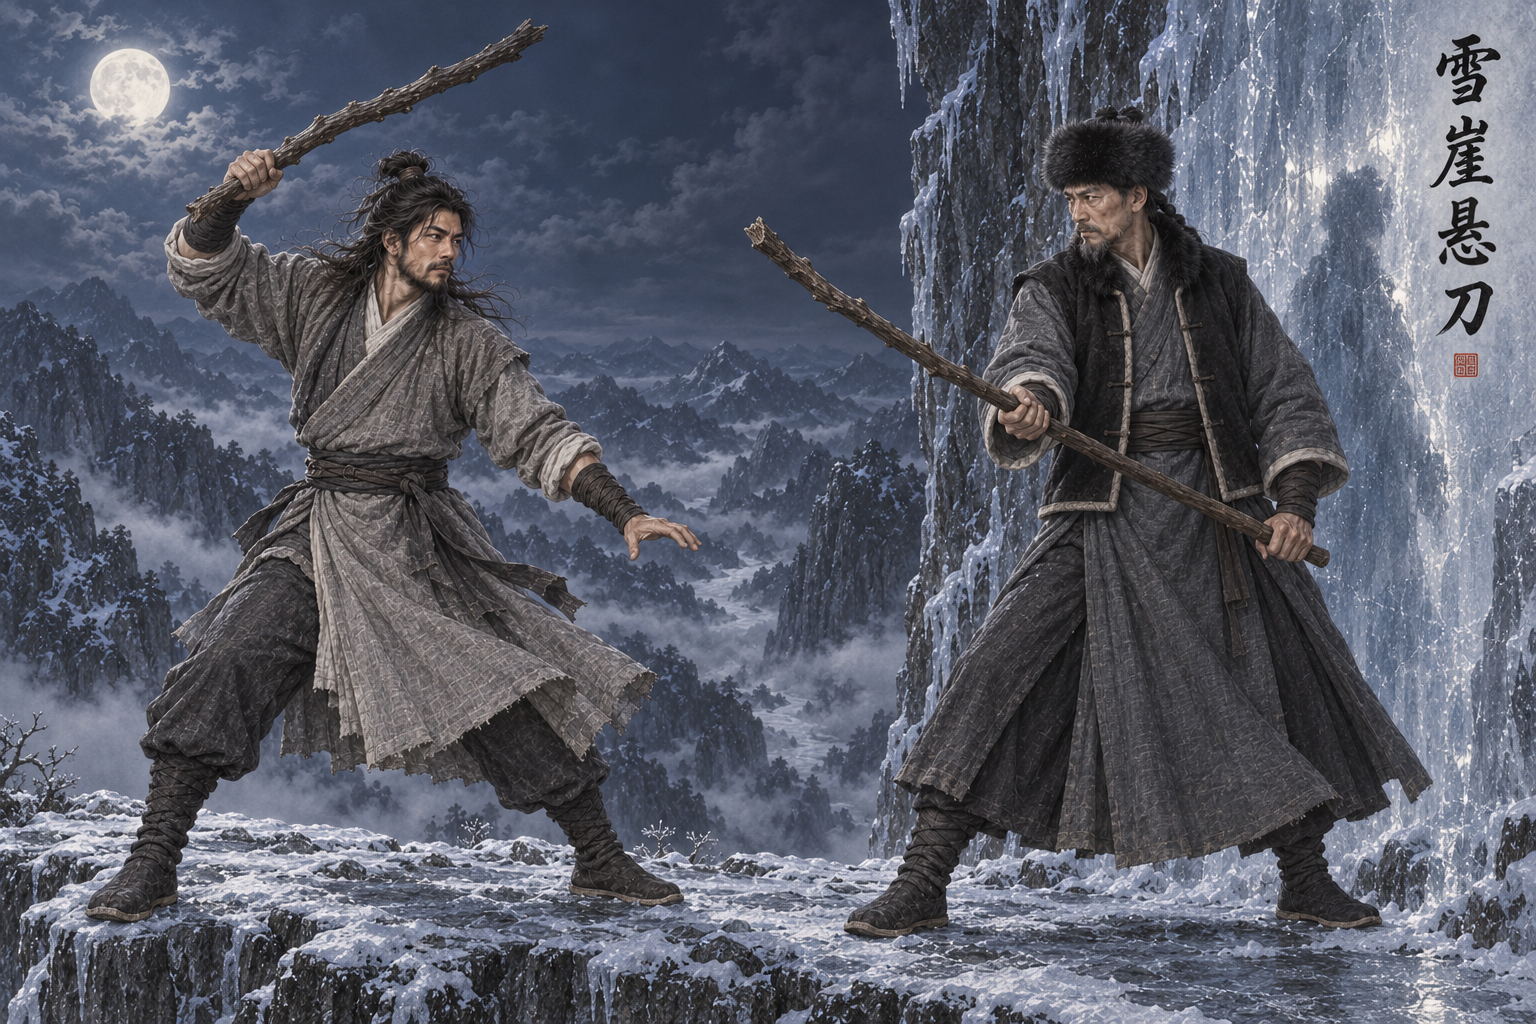
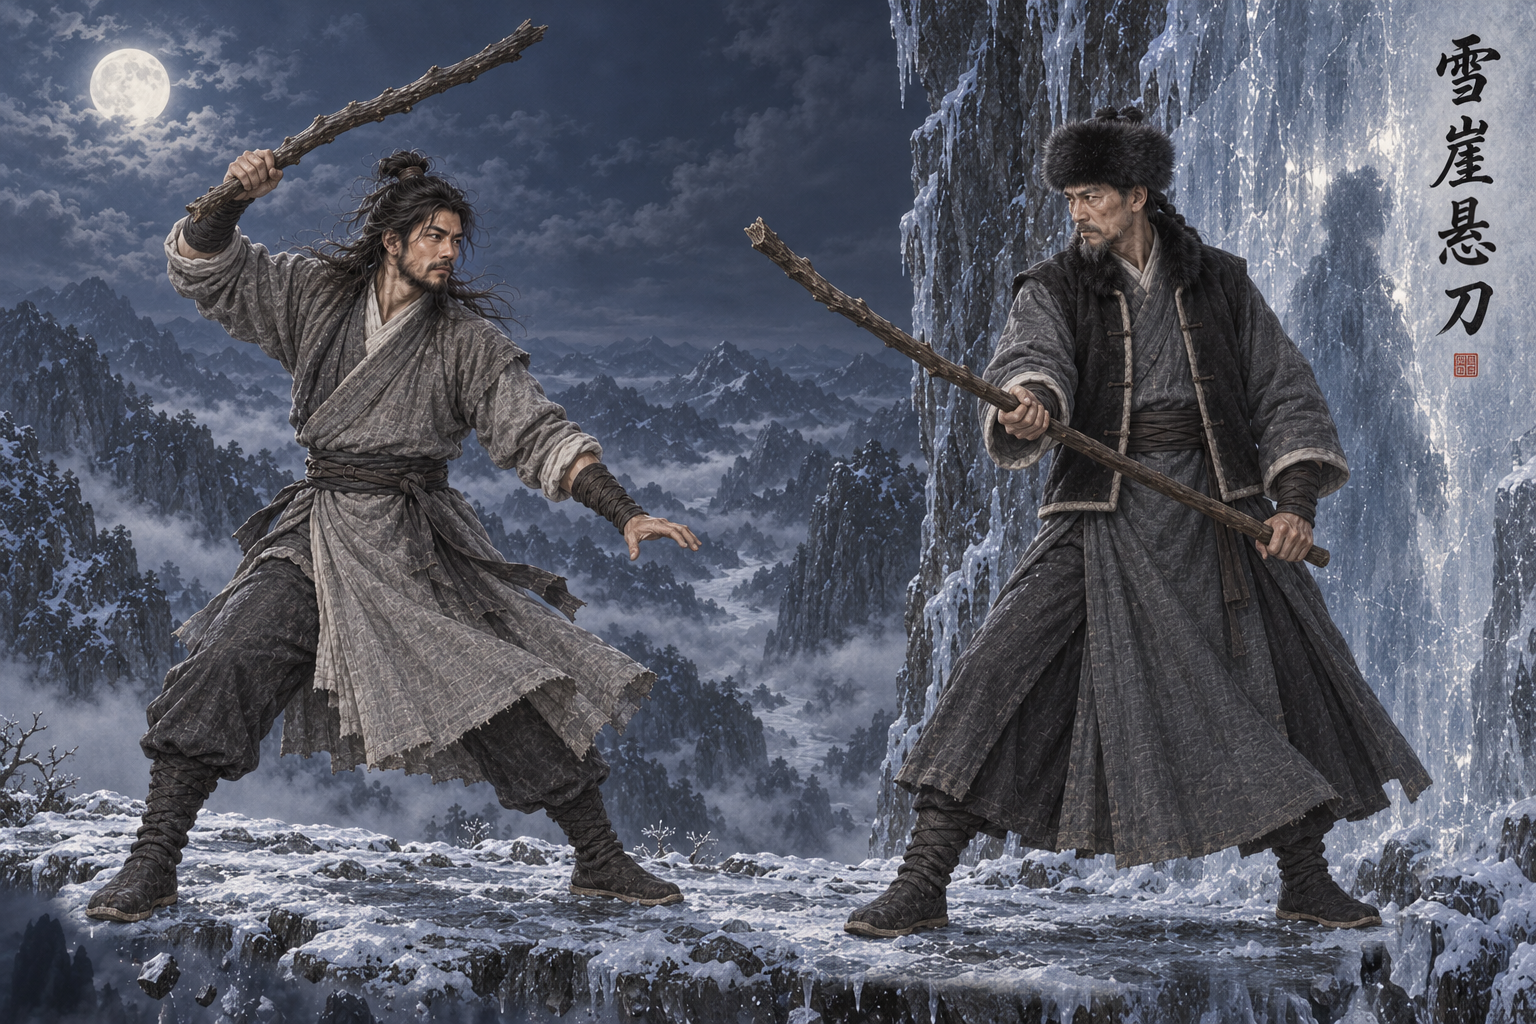
assets: AR-82 原著核对返修 巨岩（胡苗终局）、胡斐墓地夜景
修正原著明确的服饰、器物或剧情状态；编辑范围外像素保持，保留既定面容；同步原著摘句及当前返修要求。

Executed-By: Codex gpt-6.1-sol（AR-82）

Changed region(s): [[0.0, 0.8125, 1.0, 1.0]]

diff --git a/assets/default/prompts/scenes/ch13-feihu/cg_ch13_graveside_farewell.md b/assets/default/prompts/scenes/ch13-feihu/cg_ch13_graveside_farewell.md
@@ -39,6 +39,9 @@ title_rendered_text: 墓畔長風
 ## Gemini 提示词
 
 ```text
+【AR-82 当前原著约束，覆盖后文冲突旧描述】本图是胡斐归刀后将程灵素骨灰放到墓地的同一连续夜景，改为冷月夜色：天空、山林和墓地受冷月蓝灰光照，现日光晴昼完全改为夜色，可在不挪树木地形处留出月光。只改夜景光照和胡斐衣料的月光色，胡斐的头脸、抱坛与跪姿保持，刀已归墓，不重新持刀。画面后方袁紫衣仅在前部头皮补六枚小戒印，其余全身面容保留原像素；原题字墓畔长风的字形像素与红印逐像素保持不变，题字周边采用夜色自然留亮，不留日间矩形天空块；不能重画袁紫衣面孔衣物或题字，夜景保持手绘插画材质。
+【AR-82 原文摘句】《飞狐外传》第二十章“恨无常”：“刀光如水，在冷月下流转不定”；“将宝刀放回土坑之中”；《飞狐外传》第十九章“相见欢”：“脑门处并有戒印”。
+
 生成一张3:2横幅写实手绘古风剧情插画，1536×1024。所有人物明确为成年；单幅完整场景，不拼贴不分镜。
 第1张参考：胡斐本人基础图，只锁定该人的面容与成人体态；未另述衣装时沿用本人base，明确场面要求优先。
 第2张参考：胡斐·墓前归刀阶段图，锁定新身份与年龄，衣物道具以【场面】为准，不复制姿势背景。
@@ -57,3 +60,15 @@ title_rendered_text: 墓畔長風
 
 - 参考分工见实际提示词；配色、姿势、取景及成年化均为（原创扩展）。
 - 本轮结果已逐图目检并入库为 candidate；实际作业与参考哈希见 manifest。
+
+
+## 原著依据
+
+- AR-82 同步依据：《飞狐外传》第二十章“恨无常”：“刀光如水，在冷月下流转不定”；“将宝刀放回土坑之中”；《飞狐外传》第十九章“相见欢”：“脑门处并有戒印”。；执行：本图是胡斐归刀后将程灵素骨灰放到墓地的同一连续夜景，改为冷月夜色：天空、山林和墓地受冷月蓝灰光照，现日光晴昼完全改为夜色，可在不挪树木地形处留出月光。只改夜景光照和胡斐衣料的月光色，胡斐的头脸、抱坛与跪姿保持，刀已归墓，不重新持刀。画面后方袁紫衣仅在前部头皮补六枚小戒印，其余全身面容保留原像素；原题字墓畔长风的字形像素与红印逐像素保持不变，题字周边采用夜色自然留亮，不留日间矩形天空块；不能重画袁紫衣面孔衣物或题字，夜景保持手绘插画材质。
+
+
+## AR-82 当前返修约束
+
+本图是胡斐归刀后将程灵素骨灰放到墓地的同一连续夜景，改为冷月夜色：天空、山林和墓地受冷月蓝灰光照，现日光晴昼完全改为夜色，可在不挪树木地形处留出月光。只改夜景光照和胡斐衣料的月光色，胡斐的头脸、抱坛与跪姿保持，刀已归墓，不重新持刀。画面后方袁紫衣仅在前部头皮补六枚小戒印，其余全身面容保留原像素；原题字墓畔长风的字形像素与红印逐像素保持不变，题字周边采用夜色自然留亮，不留日间矩形天空块；不能重画袁紫衣面孔衣物或题字，夜景保持手绘插画材质。
+
+以本节及原著依据为当前要求，历史提示词与本节冲突时按本节执行；保留作者选定脸、原画质感与对应剧情阶段。

diff --git a/assets/default/prompts/scenes/ch14-xueshan/cg_ch14_cliff_raised_blade.md b/assets/default/prompts/scenes/ch14-xueshan/cg_ch14_cliff_raised_blade.md
@@ -39,6 +39,9 @@ title_rendered_text: 雪崖懸刀
 ## Gemini 提示词
 
 ```text
+【AR-82 当前原著约束，覆盖后文冲突旧描述】保持原图两个人的完整身体、四只靴子、树刀树剑、题字与所有脚下接触面逐像素不变；只在原岩缘以下合成突出冰滑岩体正面、岩根裂开、岩下正在掉落的碎石夹冰，不抬高平台，不改变原脚位。原巨岩原面整体保留，明确摇动欲坠的危险。
+【AR-82 原文摘句】《雪山飞狐》第十章：“沙石夹冰纷纷下堕，巨岩越晃越是厉害”
+
 生成一张3:2横幅写实手绘古风剧情插画，1536×1024。所有人物明确为成年；单幅完整场景，不拼贴不分镜。
 第1张参考：胡斐本人基础图，只锁定该人的面容与成人体态；未另述衣装时沿用本人base，明确场面要求优先。
 第2张参考：胡斐·雪崖悬刀阶段图，锁定新身份与年龄，衣物道具以【场面】为准，不复制姿势背景。
@@ -57,3 +60,15 @@ title_rendered_text: 雪崖懸刀
 
 - 参考分工见实际提示词；配色、姿势、取景及成年化均为（原创扩展）。
 - 本轮结果已逐图目检并入库为 candidate；实际作业与参考哈希见 manifest。
+
+
+## 原著依据
+
+- AR-82 同步依据：《雪山飞狐》第十章：“沙石夹冰纷纷下堕，巨岩越晃越是厉害”；执行：保持原图两个人的完整身体、四只靴子、树刀树剑、题字与所有脚下接触面逐像素不变；只在原岩缘以下合成突出冰滑岩体正面、岩根裂开、岩下正在掉落的碎石夹冰，不抬高平台，不改变原脚位。原巨岩原面整体保留，明确摇动欲坠的危险。
+
+
+## AR-82 当前返修约束
+
+保持原图两个人的完整身体、四只靴子、树刀树剑、题字与所有脚下接触面逐像素不变；只在原岩缘以下合成突出冰滑岩体正面、岩根裂开、岩下正在掉落的碎石夹冰，不抬高平台，不改变原脚位。原巨岩原面整体保留，明确摇动欲坠的危险。
+
+以本节及原著依据为当前要求，历史提示词与本节冲突时按本节执行；保留作者选定脸、原画质感与对应剧情阶段。
